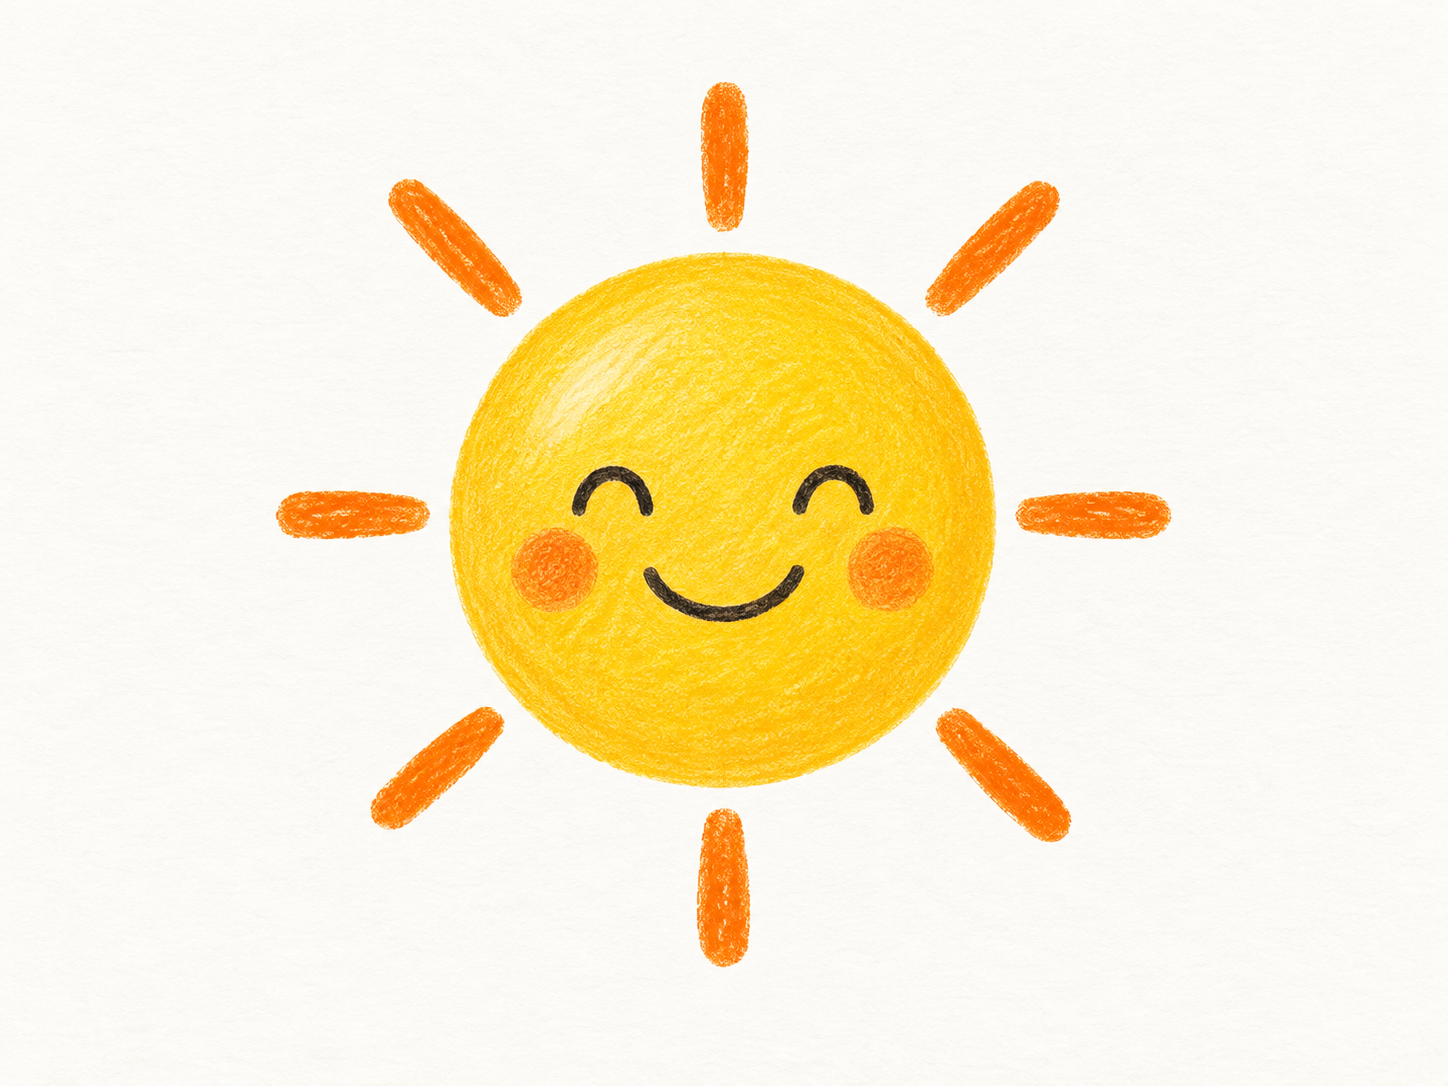
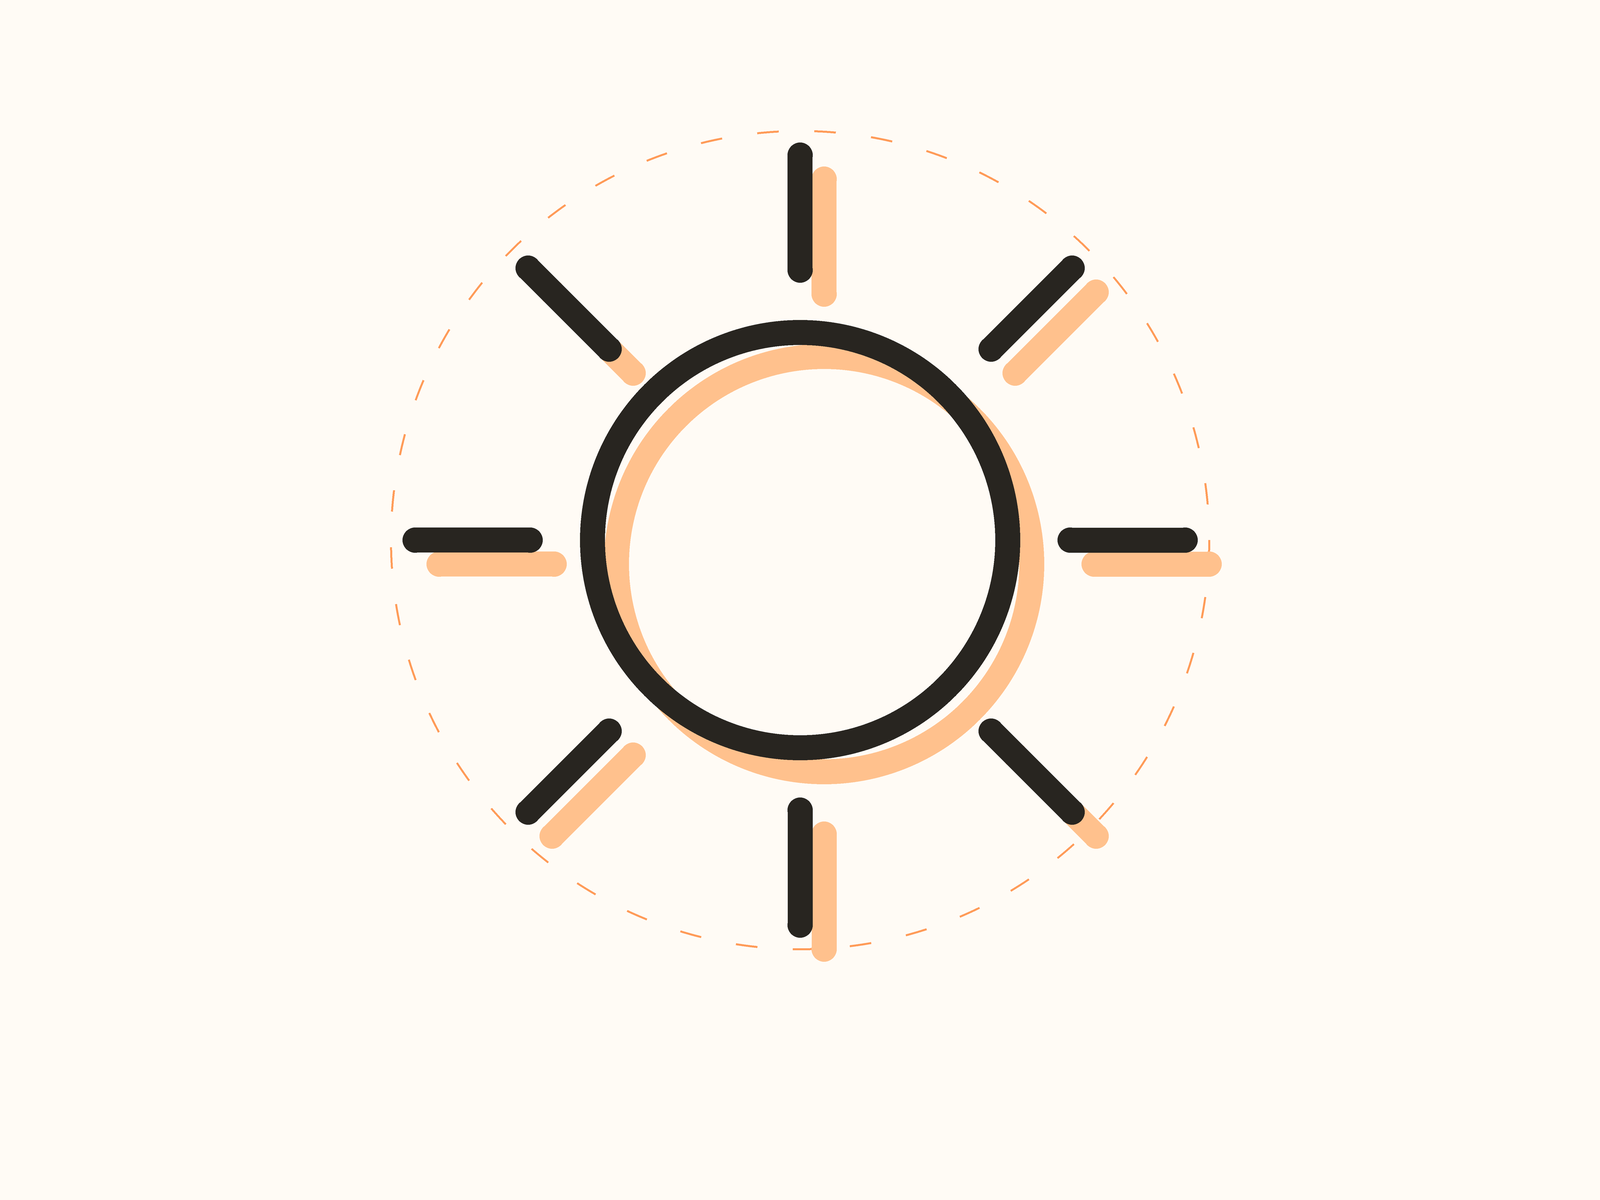
Match Sun artwork to Tingle palette

Changed region(s): [[0.1865, 0.0608, 0.808, 0.9116]]

diff --git a/scripts/render-sun-artwork.py b/scripts/render-sun-artwork.py
@@ -1,0 +1,120 @@
+from pathlib import Path
+from PIL import Image, ImageDraw, ImageOps
+
+
+ROOT = Path(__file__).resolve().parents[1]
+MASTER = ROOT / "content/word-images/source/pack-14/TNG-1361.png"
+CARD = ROOT / "public/word-images/v1/packs/pack-14/TNG-1361.webp"
+THUMBNAIL = ROOT / "public/word-images/v1/packs/pack-14/TNG-1361-thumb.webp"
+
+SCALE = 4
+CANVAS = (1600, 1200)
+PAPER = "#FFFBF5"
+CHARCOAL = "#282520"
+PEACH = "#FFC18D"
+ORANGE = "#FF9B58"
+
+
+def scaled(value: int) -> int:
+    return value * SCALE
+
+
+def rounded_line(draw: ImageDraw.ImageDraw, points, fill: str, width: int) -> None:
+    scaled_points = [(scaled(x), scaled(y)) for x, y in points]
+    scaled_width = scaled(width)
+    draw.line(scaled_points, fill=fill, width=scaled_width)
+    radius = scaled_width // 2
+    for x, y in (scaled_points[0], scaled_points[-1]):
+        draw.ellipse((x - radius, y - radius, x + radius, y + radius), fill=fill)
+
+
+image = Image.new("RGB", (scaled(CANVAS[0]), scaled(CANVAS[1])), PAPER)
+draw = ImageDraw.Draw(image)
+
+center = (800, 540)
+shadow_offset = (24, 24)
+sun_radius = 220
+ray_start = 270
+ray_end = 385
+
+# Quiet dashed memory circle from the approved card direction.
+outer_radius = 410
+for start in range(0, 360, 8):
+    draw.arc(
+        (
+            scaled(center[0] - outer_radius),
+            scaled(center[1] - outer_radius),
+            scaled(center[0] + outer_radius),
+            scaled(center[1] + outer_radius),
+        ),
+        start=start,
+        end=start + 3,
+        fill=ORANGE,
+        width=scaled(2),
+    )
+
+ray_vectors = [
+    ((0, -ray_start), (0, -ray_end)),
+    ((191, -191), (272, -272)),
+    ((ray_start, 0), (ray_end, 0)),
+    ((191, 191), (272, 272)),
+    ((0, ray_start), (0, ray_end)),
+    ((-191, 191), (-272, 272)),
+    ((-ray_start, 0), (-ray_end, 0)),
+    ((-191, -191), (-272, -272)),
+]
+
+for (sx, sy), (ex, ey) in ray_vectors:
+    rounded_line(
+        draw,
+        [
+            (center[0] + sx + shadow_offset[0], center[1] + sy + shadow_offset[1]),
+            (center[0] + ex + shadow_offset[0], center[1] + ey + shadow_offset[1]),
+        ],
+        PEACH,
+        25,
+    )
+
+shadow_center = (center[0] + shadow_offset[0], center[1] + shadow_offset[1])
+draw.ellipse(
+    (
+        scaled(shadow_center[0] - sun_radius),
+        scaled(shadow_center[1] - sun_radius),
+        scaled(shadow_center[0] + sun_radius),
+        scaled(shadow_center[1] + sun_radius),
+    ),
+    outline=PEACH,
+    width=scaled(25),
+)
+
+for (sx, sy), (ex, ey) in ray_vectors:
+    rounded_line(
+        draw,
+        [(center[0] + sx, center[1] + sy), (center[0] + ex, center[1] + ey)],
+        CHARCOAL,
+        25,
+    )
+
+draw.ellipse(
+    (
+        scaled(center[0] - sun_radius),
+        scaled(center[1] - sun_radius),
+        scaled(center[0] + sun_radius),
+        scaled(center[1] + sun_radius),
+    ),
+    outline=CHARCOAL,
+    width=scaled(25),
+)
+
+image = image.resize(CANVAS, Image.Resampling.LANCZOS)
+MASTER.parent.mkdir(parents=True, exist_ok=True)
+CARD.parent.mkdir(parents=True, exist_ok=True)
+image.save(MASTER, "PNG", optimize=True)
+image.save(CARD, "WEBP", quality=92, method=6)
+ImageOps.fit(image, (480, 360), method=Image.Resampling.LANCZOS).save(
+    THUMBNAIL, "WEBP", quality=88, method=6
+)
+
+print(MASTER)
+print(CARD)
+print(THUMBNAIL)
